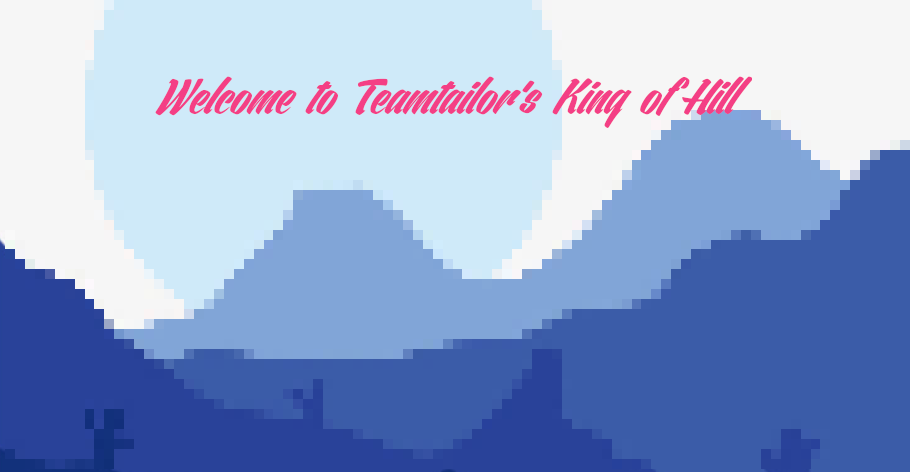
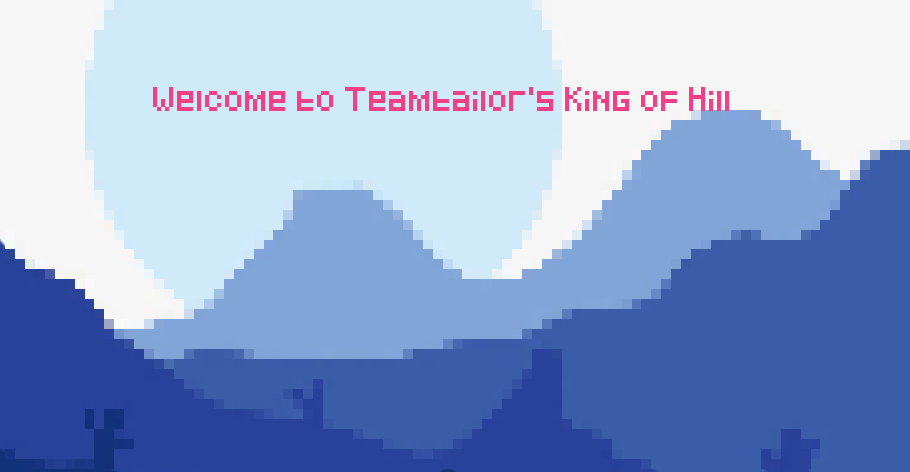
New background

Changed region(s): [[0.1538, 0.1483, 0.8308, 0.2669]]

diff --git a/src/scenes/menu/MainMenuScene.js b/src/scenes/menu/MainMenuScene.js
@@ -56,6 +56,17 @@ class MainMenuScene extends BaseScene {
 
     this.drawActiveUsers();
 
+    const menuHolderRect = new Phaser.Geom.Rectangle(232, 202, 346, 426);
+    const menuHolderGraphics = this.add.graphics({
+      fillStyle: {
+        color: 0xffffff,
+        alpha: 0.8
+      }
+    });
+
+    menuHolderGraphics.fillRectShape(menuHolderRect);
+    this.add.graphics(menuHolderGraphics);
+
     buttons.push(this.add.image(400, 270, 'NewGameButton').setInteractive());
     buttons.push(this.add.image(400, 370, 'ResumeGameButton').setInteractive());
     buttons.push(this.add.image(400, 470, 'RulesButton').setInteractive());
@@ -74,34 +85,27 @@ class MainMenuScene extends BaseScene {
   }
 
   drawActiveUsers() {
-    const borderRect = new Phaser.Geom.Rectangle(680, 200, 350, 430);
     const activeUsersRect = new Phaser.Geom.Rectangle(682, 202, 346, 426);
-    const line = new Phaser.Geom.Line(780, 300, 960, 300);
+    const line = new Phaser.Geom.Line(760, 300, 950, 300);
 
-    const borderGraphics = this.add.graphics({
-      fillStyle: {
-        color: 0x000000
-      }
-    });
     const activeUsersGraphics = this.add.graphics({
       fillStyle: {
-        color: 0xffffff
+        color: 0x183274,
+        alpha: 0.8
       }
     });
 
-    borderGraphics.fillRectShape(borderRect);
     activeUsersGraphics.fillRectShape(activeUsersRect);
 
-    activeUsersGraphics.lineStyle(2, 0x000000);
+    activeUsersGraphics.lineStyle(2, 0xffffff);
     activeUsersGraphics.strokeLineShape(line);
 
     this.add.text(750, 250, 'Players online now', {
-      fontFamily: 'Arial',
-      fontSize: 25,
-      color: '#000000'
+      fontFamily: 'Pixeled',
+      fontSize: 14,
+      color: '#ffffff'
     });
 
-    this.add.graphics(borderGraphics);
     this.add.graphics(activeUsersGraphics);
 
     this.drawUsersList(5);
@@ -110,35 +114,35 @@ class MainMenuScene extends BaseScene {
   drawUsersList(maxPlayersCount) {
     let printedUsersCount = 0;
     let printStartPositionY = 400;
-    const printStartPositionX = 740;
-    const tableSpace = 70;
+    const printStartPositionX = 760;
+    const tableSpace = 80;
     
     this.add.text(730, 350, 'Levels', {
-      fontFamily: 'Arial',
-      fontSize: 25,
-      color: '#000000'
+      fontFamily: 'Pixeled',
+      fontSize: 15,
+      color: '#ffffff'
     });
-    this.add.text(890, 350, 'Players', {
-      fontFamily: 'Arial',
-      fontSize: 25,
-      color: '#000000'
+    this.add.text(880, 350, 'Players', {
+      fontFamily: 'Pixeled',
+      fontSize: 15,
+      color: '#ffffff'
     });
 
     this.players.map(player => {
       if (printedUsersCount <= maxPlayersCount) {
         this.add.text(printStartPositionX, printStartPositionY, player.level, {
-          fontFamily: 'Arial',
-          fontSize: 25,
-          color: '#000000'
+          fontFamily: 'Pixeled',
+          fontSize: 15,
+          color: '#ffffff'
         });
         this.add.text(
           printStartPositionX + tableSpace,
           printStartPositionY,
           player.name,
           {
-            fontFamily: 'Arial',
-            fontSize: 25,
-            color: '#000000'
+            fontFamily: 'Pixeled',
+            fontSize: 15,
+            color: '#ffffff'
           }
         );
         printedUsersCount++;

diff --git a/src/scenes/GameScene.js b/src/scenes/GameScene.js
@@ -46,7 +46,7 @@ class GameScene extends BaseScene {
       10,
       'Controls:\nPush: Arrows & Space\nTank: WASD & R\nMouse: Click & B\nGo to menu: Esc',
       {
-        fontFamily: 'Arial',
+        fontFamily: 'Pixeled',
         fontSize: 12,
         color: '#00ff00'
       }
